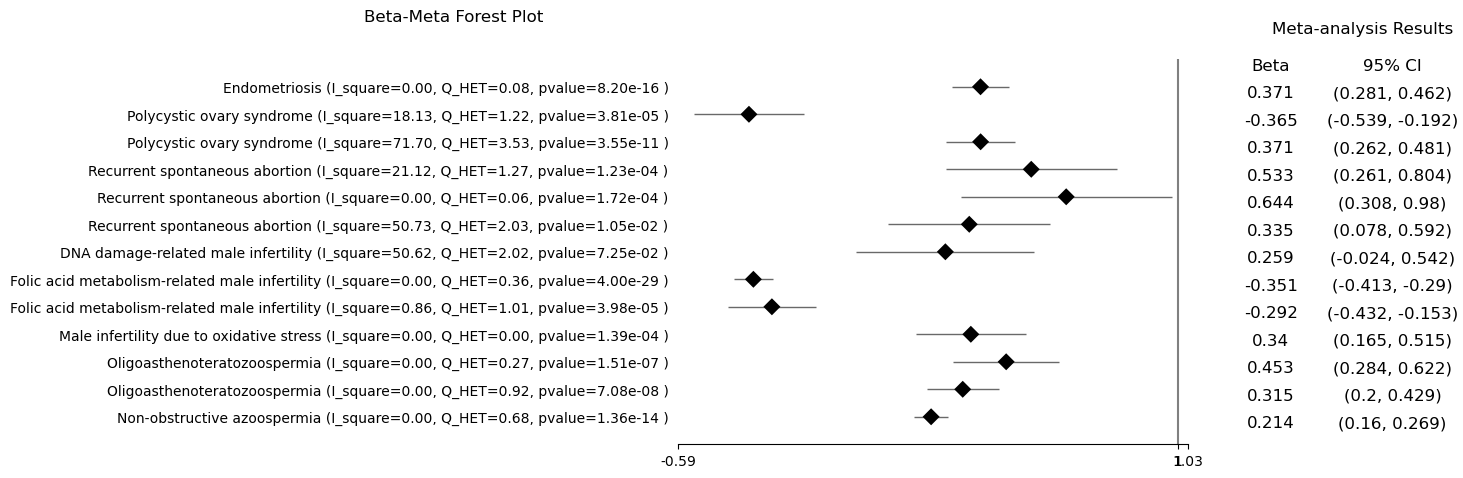
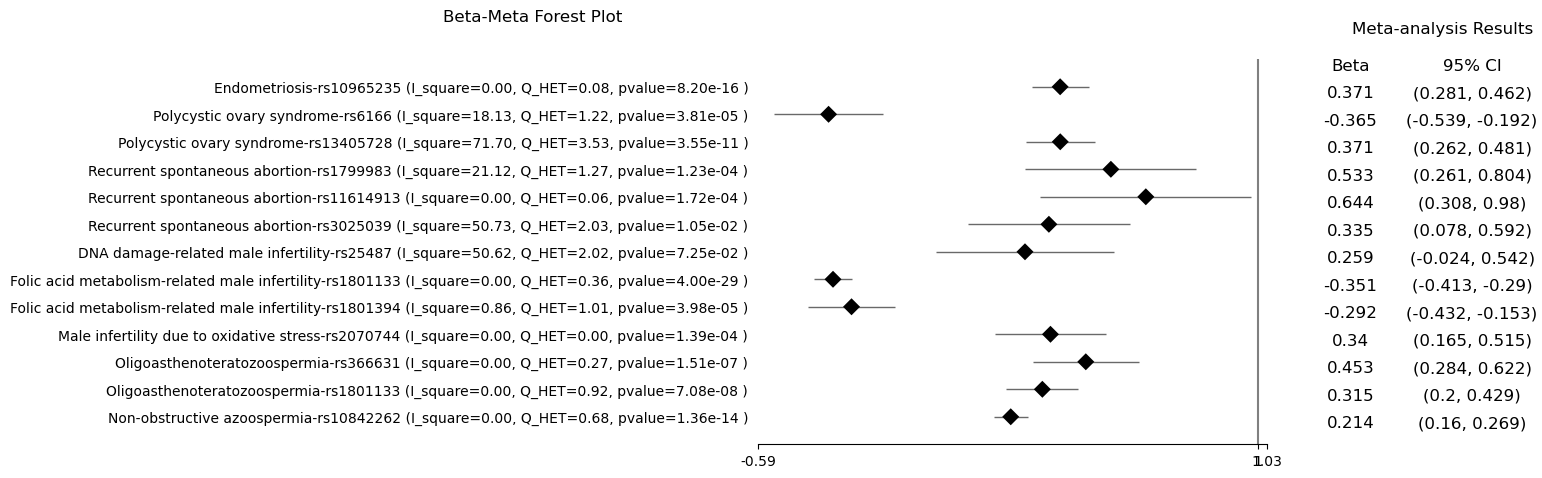
Modify the forest plot - Add the rs_num

diff --git a/beta_meta_script/beta_meta.py b/beta_meta_script/beta_meta.py
@@ -331,7 +331,7 @@ lower = []
 upper = []
 for j in range(len(li_PHENOTYPE_SNP)):
   if li_I_square[j] != 'No Meta':
-    text = li_PHENOTYPE_SNP[j][0] + " (I_square=" + format(li_I_square[j], ".2f") + ", Q_HET=" + format(li_Q[j], ".2f") + ", pvalue=" + '{:0.2e}'.format(li_p_value[j]) + " )"
+    text = li_PHENOTYPE_SNP[j][0] + '-' + li_PHENOTYPE_SNP[j][1] + " (I_square=" + format(li_I_square[j], ".2f") + ", Q_HET=" + format(li_Q[j], ".2f") + ", pvalue=" + '{:0.2e}'.format(li_p_value[j]) + " )"
     beta_lower = li_BETA_META[j] - 1.96 * li_STD_BETA_META[j]
     beta_upper = li_BETA_META[j] + 1.96 * li_STD_BETA_META[j]
     
